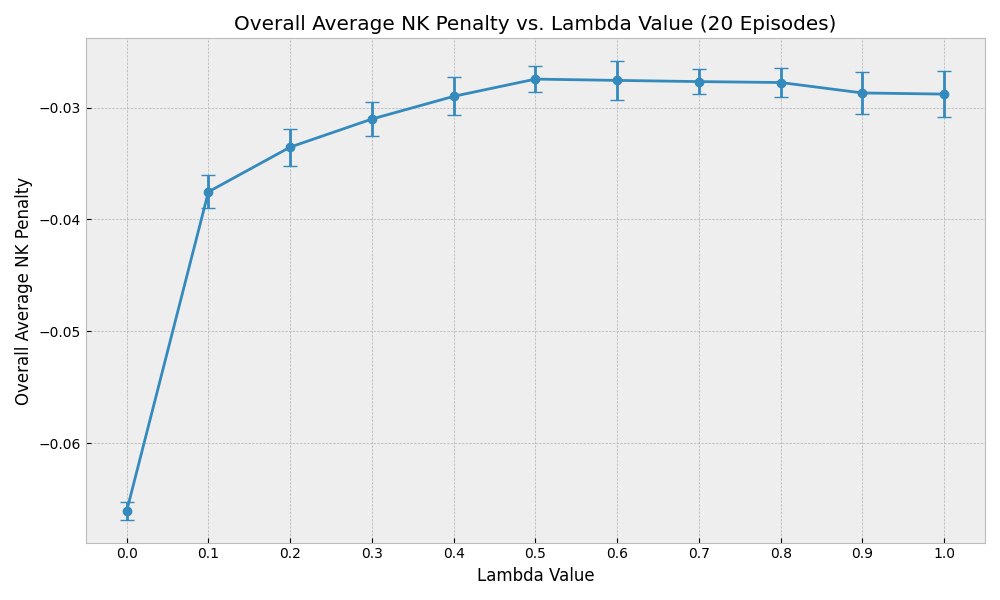
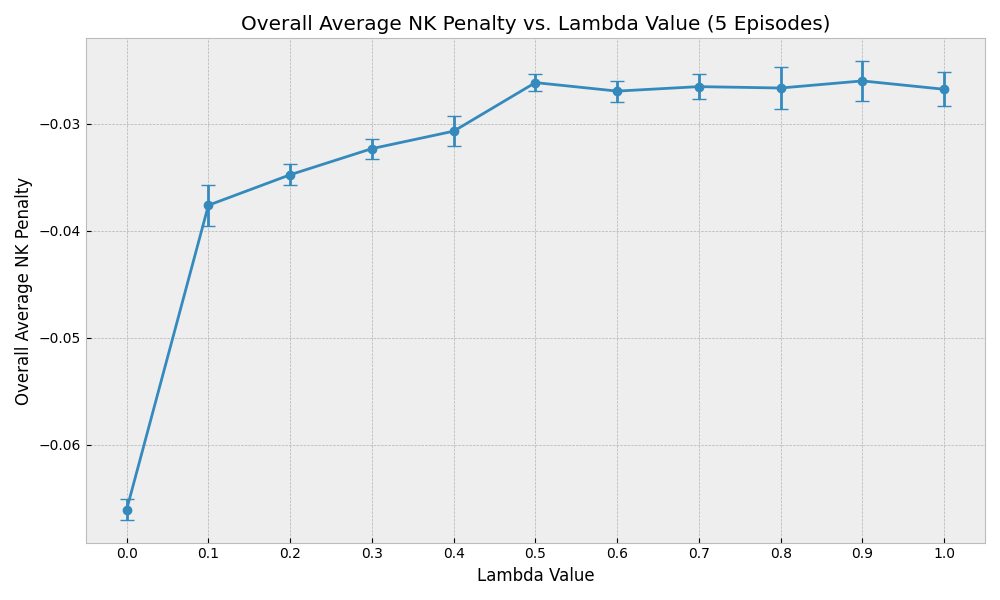
checking surrogate rewards

diff --git a/DTR-Bench/surrogate_eval_plots.py b/DTR-Bench/surrogate_eval_plots.py
@@ -1,4 +1,5 @@
 import DTRGym
+import gymnasium as gym
 import numpy as np
 import os
 import sys
@@ -9,6 +10,8 @@ import torch
 import matplotlib.pyplot as plt
 import argparse
 import jax.numpy as jnp
+import csv
+from gymnasium.core import RewardWrapper
 
 sys.path.append('/mnt/pdata/hmka3/HTI/NLOT')
 
@@ -16,20 +19,45 @@ AGENT_PATH = "policies/ppo_ghaffari_cancer_model__0.zip"
 AGENT_NAME = "single_agent_eval"
 ENV_NAME = 'GhaffariCancerEnv-continuous'
 NUM_EVAL_EPISODES = 5
-
-# Define the lambda values to evaluate
 LAMBDA_VALUES = [0.0, 0.1, 0.2, 0.3, 0.4, 0.5, 0.6, 0.7, 0.8, 0.9, 1.0]
 PLOT_DIR = "surrogate_plots"
 os.makedirs(PLOT_DIR, exist_ok=True)
 
 parser = argparse.ArgumentParser(description='Evaluate a single agent with a pushforward function.')
 parser.add_argument('--lambda_pushforward', type=float, default=0, help='Lambda value for the pushforward function.')
-parser.add_argument('--workspace_path', type=str, default="../NLOT/2025.05.14/ours/0/latest.pkl", help='Path to the trained OT workspace pickle file.')
+parser.add_argument('--workspace_path', type=str, default="../NLOT/2025.05.14/ours.pkl", help='Path to the trained OT workspace pickle file.')
 parser.add_argument('--all_lambdas', action='store_true', help='Evaluate all lambda values and generate plot')
 args = parser.parse_args()
 LAMBDA_PUSHFORWARD = args.lambda_pushforward
 
 workspace = None
+
+class CustomRewardWrapper(RewardWrapper):
+    def __init__(self, env, lambda_nk: float = 0.5):
+        super().__init__(env)
+        self.lambda_nk = lambda_nk
+        self.init_obs = None
+
+    def reset(self, **kwargs):
+        obs, info = self.env.reset(**kwargs)
+        self.init_obs = np.array(obs, copy=True)
+        return obs, info
+
+    def step(self, action):
+        obs, reward, terminated, truncated, info = self.env.step(action)
+
+        if self.init_obs is not None:
+            N_p  = obs[1]
+            N_s  = obs[5]
+            N_p0 = self.init_obs[1]
+            N_s0 = self.init_obs[5]
+            N  = max(np.e,  N_p  + N_s)
+            N0 = max(np.e,  N_p0 + N_s0)
+            logN, logN0 = np.log(N), np.log(N0)
+            nk_penalty = -np.abs(logN / logN0 - 1)
+            reward = reward + self.lambda_nk * nk_penalty
+
+        return obs, reward, terminated, truncated, info
 
 #print current working directory
 print(f"Current working directory: {os.getcwd()}")
@@ -96,8 +124,6 @@ def pushforward(action, obs, lambda_val):
     pushforward_action = current_sample[:action_dim].reshape(action.shape)
     
     pushforward_action = np.array(pushforward_action, dtype=np.float32)
-   #print("Initital action:", action)
-   # print("Pushforward action:", pushforward_action)
 
     return pushforward_action
 
@@ -121,9 +147,15 @@ def calculate_nk_penalty(current_obs_vec, initial_obs_vec):
 
 def evaluate_lambda(model, lambda_val):
     """Evaluate the agent with a specific lambda pushforward value."""
-    env = make_vec_env(ENV_NAME, n_envs=1)
+    def make_env():
+        env = gym.make(ENV_NAME)
+        env = CustomRewardWrapper(env, lambda_nk=lambda_val * 10)
+        return env
+    
+    env = make_vec_env(make_env, n_envs=1)
     
     overall_average_penalties = []
+    episode_rewards = []
     
     print(f'\n--- Evaluating agent {AGENT_NAME} for NK penalty with lambda = {lambda_val} ---')
 
@@ -132,118 +164,93 @@ def evaluate_lambda(model, lambda_val):
         obs = initial_obs_for_episode
         done = False
         penalties_this_episode = []
+        episode_reward = 0
         episode_steps = 0
         
         print(f"Starting Episode {episode_num + 1}/{NUM_EVAL_EPISODES}")
 
         while not done:
             action, _ = model.predict(obs, deterministic=True)
-            
             modified_action = pushforward(action, obs, lambda_val)
-            
             next_obs, reward, done_array, info = env.step(modified_action)
-            
             penalty = calculate_nk_penalty(next_obs, initial_obs_for_episode)
             penalties_this_episode.append(penalty)
-            
+            episode_reward += reward[0] 
             obs = next_obs
             done = done_array[0]
             episode_steps += 1
         
-        if penalties_this_episode:
-            avg_penalty_for_this_episode = np.mean(penalties_this_episode)
-            overall_average_penalties.append(avg_penalty_for_this_episode)
-            print(f"Episode {episode_num + 1}: Average NK Penalty = {avg_penalty_for_this_episode:.4f}, Steps = {episode_steps}")
-        else:
-            print(f"Warning: Lambda {lambda_val}, Episode {episode_num + 1} had no penalties recorded.")
-    
-    env.close()
+        avg_penalty_for_this_episode = np.mean(penalties_this_episode)
+        overall_average_penalties.append(avg_penalty_for_this_episode)
+        episode_rewards.append(episode_reward)
+        print(f"Episode {episode_num + 1}: Average NK Penalty = {avg_penalty_for_this_episode:.4f}, Steps = {episode_steps}")
 
-    # Calculate statistics
-    if overall_average_penalties:
-        final_avg_nk_penalty = np.mean(overall_average_penalties)
-        std_dev_nk_penalty = np.std(overall_average_penalties)
-        print(f"\n--- Summary for Lambda = {lambda_val} ---")
-        print(f"Overall Average NK Penalty across {NUM_EVAL_EPISODES} episodes = {final_avg_nk_penalty:.4f}")
-        print(f"Standard Deviation of Per-Episode Average NK Penalties = {std_dev_nk_penalty:.4f}")
-        return final_avg_nk_penalty, std_dev_nk_penalty
-    else:
-        print(f"\nNo penalties recorded for lambda = {lambda_val} across {NUM_EVAL_EPISODES} episodes.")
-        return None, None
+    env.close()
+    final_avg_nk_penalty = np.mean(overall_average_penalties)
+    std_dev_nk_penalty = np.std(overall_average_penalties)
+    final_avg_reward = np.mean(episode_rewards) 
+    print(f"\n--- Summary for Lambda = {lambda_val} ---")
+    print(f"Overall Average NK Penalty across {NUM_EVAL_EPISODES} episodes = {final_avg_nk_penalty:.4f}")
+    print(f"Standard Deviation of Per-Episode Average NK Penalties = {std_dev_nk_penalty:.4f}")
+    print(f"Overall Average Reward across {NUM_EVAL_EPISODES} episodes = {final_avg_reward:.4f}")
+
+    return final_avg_nk_penalty, std_dev_nk_penalty, final_avg_reward
+
 
 print(f"--- Loading Agent: {AGENT_NAME} ---")
-if os.path.exists(AGENT_PATH):
-    try:
-        model = PPO.load(AGENT_PATH)
-        print(f"Successfully loaded model '{AGENT_NAME}' from '{AGENT_PATH}'")
-    except Exception as e:
-        print(f"Error loading model '{AGENT_NAME}' from '{AGENT_PATH}': {e}")
-        model = None
-else:
-    print(f"Model file not found for '{AGENT_NAME}' at '{AGENT_PATH}'. Exiting.")
-    model = None
 
-if model is None:
-    exit()
+model = PPO.load(AGENT_PATH)
+print(f"Successfully loaded model '{AGENT_NAME}' from '{AGENT_PATH}'")
 
-# If evaluating all lambdas
 if args.all_lambdas:
     lambda_results = []
-    
+    all_lambda_rewards = [] 
     for lambda_val in LAMBDA_VALUES:
-        avg_penalty, std_dev = evaluate_lambda(model, lambda_val)
-        if avg_penalty is not None:
-            lambda_results.append((lambda_val, avg_penalty, std_dev))
+        avg_penalty, std_dev, avg_reward = evaluate_lambda(model, lambda_val)
+        lambda_results.append((lambda_val, avg_penalty, std_dev))
+        all_lambda_rewards.append(avg_reward)
     
-    # Generate plot
-    if lambda_results:
-        plot_lambdas = [item[0] for item in lambda_results]
-        plot_avg_penalties = [item[1] for item in lambda_results]
-        plot_std_devs = [item[2] for item in lambda_results]
+    overall_avg_reward = np.mean(all_lambda_rewards)
+    print(f"Average Reward across all lambda values = {overall_avg_reward:.4f}")
+    plot_lambdas = [item[0] for item in lambda_results]
+    plot_avg_penalties = [item[1] for item in lambda_results]
+    plot_std_devs = [item[2] for item in lambda_results]
 
-        plt.figure(figsize=(10, 6))
-        plt.errorbar(plot_lambdas, plot_avg_penalties, yerr=plot_std_devs, 
-                    marker='o', linestyle='-', capsize=5)
-        
-        plt.title(f"Overall Average NK Penalty vs. Lambda Value ({NUM_EVAL_EPISODES} Episodes)")
-        plt.xlabel("Lambda Value")
-        plt.ylabel("Overall Average NK Penalty")
-        plt.grid(True)
-        plt.xticks(plot_lambdas)
-        
-        plt.tight_layout()
-        
-        plot_filename = os.path.join(PLOT_DIR, "surrogate_avg_nk_penalty_vs_lambda_ours.png")
-        plt.savefig(plot_filename)
-        print(f"\nSaved overall average NK penalty plot to {plot_filename}")
-        plt.close()
-        
-        # Save results to CSV
-        import csv
-        csv_filename = os.path.join(PLOT_DIR, "surrogate_nk_penalty_data_ours.csv")
-        with open(csv_filename, 'w', newline='') as csvfile:
-            writer = csv.writer(csvfile)
-            writer.writerow(['Lambda', 'Average Penalty', 'Standard Deviation'])
-            for row in lambda_results:
-                writer.writerow(row)
-        print(f"Saved data to {csv_filename}")
-    else:
-        print("\nNo valid data to plot for NK penalty vs Lambda.")
-        
+    plt.figure(figsize=(10, 6))
+    plt.errorbar(plot_lambdas, plot_avg_penalties, yerr=plot_std_devs, marker='o', linestyle='-', capsize=5)
+    plt.title(f"Overall Average NK Penalty vs. Lambda Value ({NUM_EVAL_EPISODES} Episodes)")
+    plt.xlabel("Lambda Value")
+    plt.ylabel("Overall Average NK Penalty")
+    plt.grid(True)
+    plt.xticks(plot_lambdas)
+    plt.tight_layout()
+    plot_filename = os.path.join(PLOT_DIR, "surrogate_avg_nk_penalty_vs_lambda_ours.png")
+    plt.savefig(plot_filename)
+    print(f"\nSaved overall average NK penalty plot to {plot_filename}")
+    plt.close()
+    
+    csv_filename = os.path.join(PLOT_DIR, "surrogate_nk_penalty_data_ours.csv")
+    with open(csv_filename, 'w', newline='') as csvfile:
+        writer = csv.writer(csvfile)
+        writer.writerow(['Lambda', 'Average Penalty', 'Standard Deviation'])
+        for row in lambda_results:
+            writer.writerow(row)
+    print(f"Saved data to {csv_filename}")
     print("\nEvaluation complete.")
 else:
-    # Original single lambda evaluation
     env = make_vec_env(ENV_NAME, n_envs=1)
 
     print(f'\n--- Evaluating agent {AGENT_NAME} for NK penalty with pushforward function ---')
 
     overall_average_penalties = [] 
+    episode_rewards = []
 
     for episode_num in range(NUM_EVAL_EPISODES):
         initial_obs_for_episode = env.reset()
         obs = initial_obs_for_episode
         done = False
         penalties_this_episode = []
+        episode_reward = 0
         episode_steps = 0
         
         print(f"Starting Episode {episode_num + 1}/{NUM_EVAL_EPISODES}")
@@ -257,6 +264,7 @@ else:
             
             penalty = calculate_nk_penalty(next_obs, initial_obs_for_episode)
             penalties_this_episode.append(penalty)
+            episode_reward += reward[0] 
             
             obs = next_obs
             done = done_array[0]
@@ -265,6 +273,7 @@ else:
         if penalties_this_episode:
             avg_penalty_for_this_episode = np.mean(penalties_this_episode)
             overall_average_penalties.append(avg_penalty_for_this_episode)
+            episode_rewards.append(episode_reward) 
             print(f"Episode {episode_num + 1}: Average NK Penalty = {avg_penalty_for_this_episode:.4f}, Steps = {episode_steps}")
         else:
             print(f"Warning: Agent {AGENT_NAME}, Episode {episode_num + 1} had no penalties recorded.")
@@ -274,9 +283,11 @@ else:
     if overall_average_penalties:
         final_avg_nk_penalty = np.mean(overall_average_penalties)
         std_dev_nk_penalty = np.std(overall_average_penalties)
+        final_avg_reward = np.mean(episode_rewards) 
         print(f"\n--- Summary for Agent: {AGENT_NAME} ---")
         print(f"Overall Average NK Penalty across {NUM_EVAL_EPISODES} episodes = {final_avg_nk_penalty:.4f}")
         print(f"Standard Deviation of Per-Episode Average NK Penalties = {std_dev_nk_penalty:.4f}")
+        print(f"Overall Average Reward across {NUM_EVAL_EPISODES} episodes = {final_avg_reward:.4f}")
     else:
         print(f"\nNo penalties recorded for agent {AGENT_NAME} across {NUM_EVAL_EPISODES} episodes.")
 
